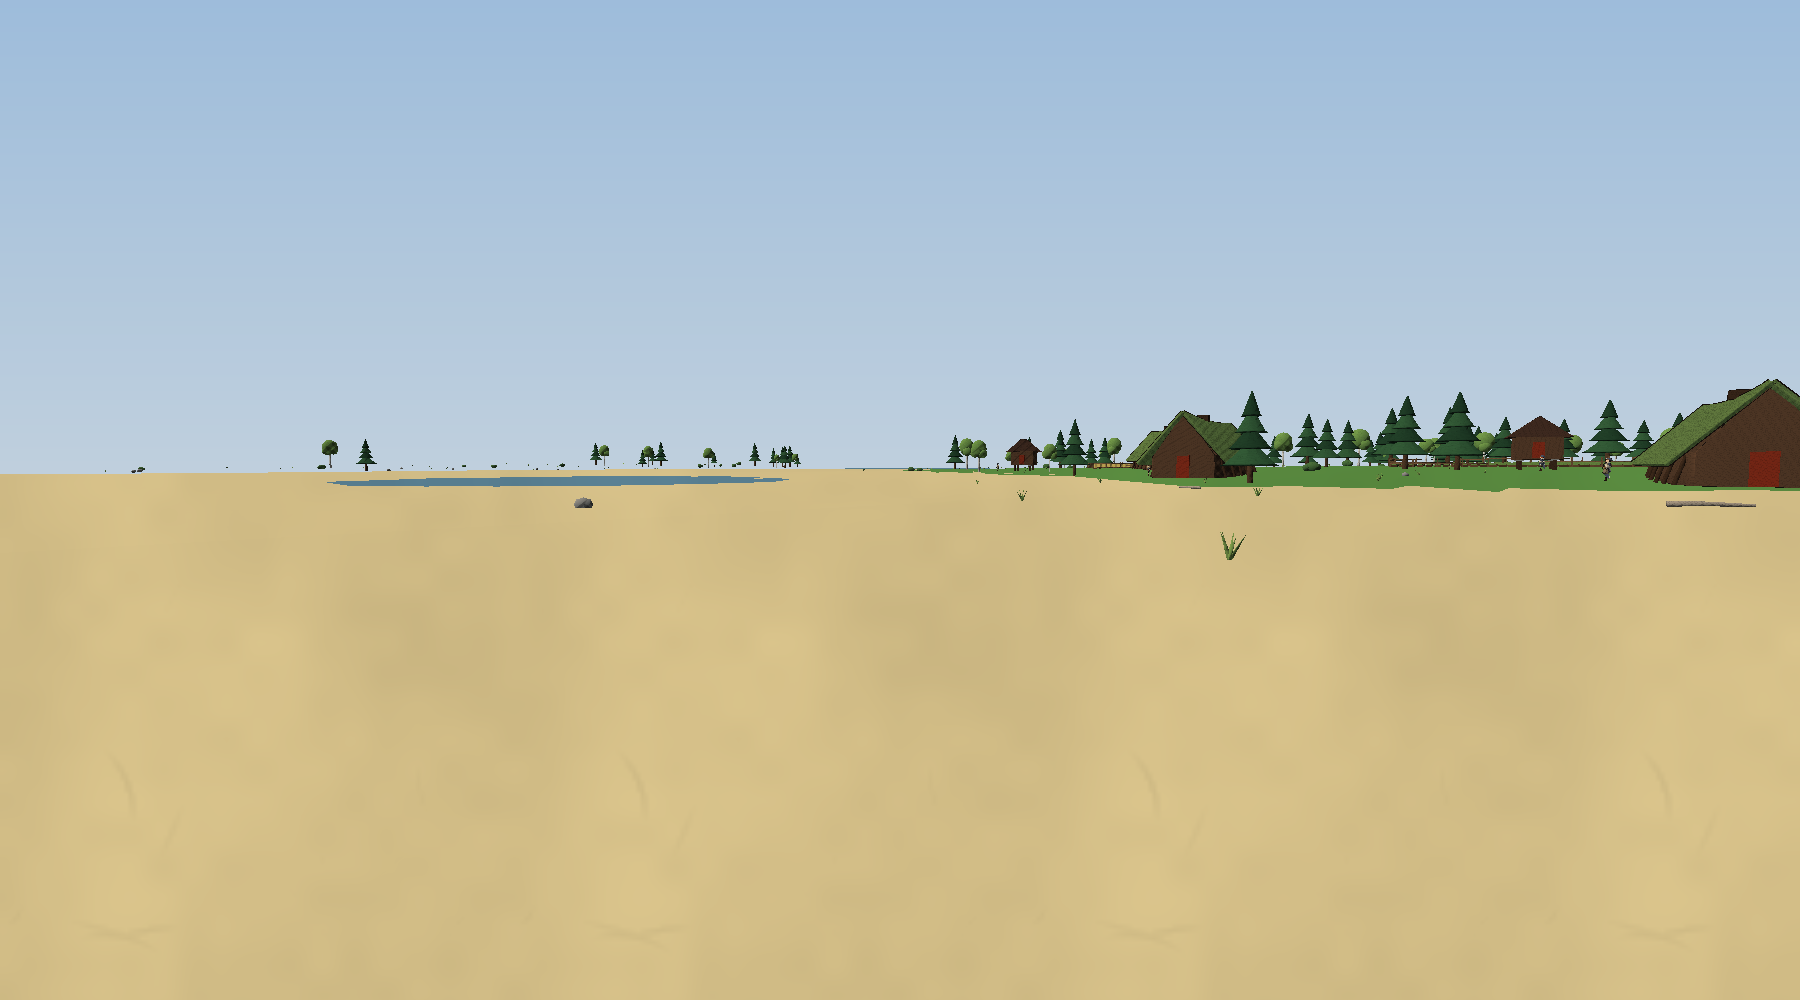
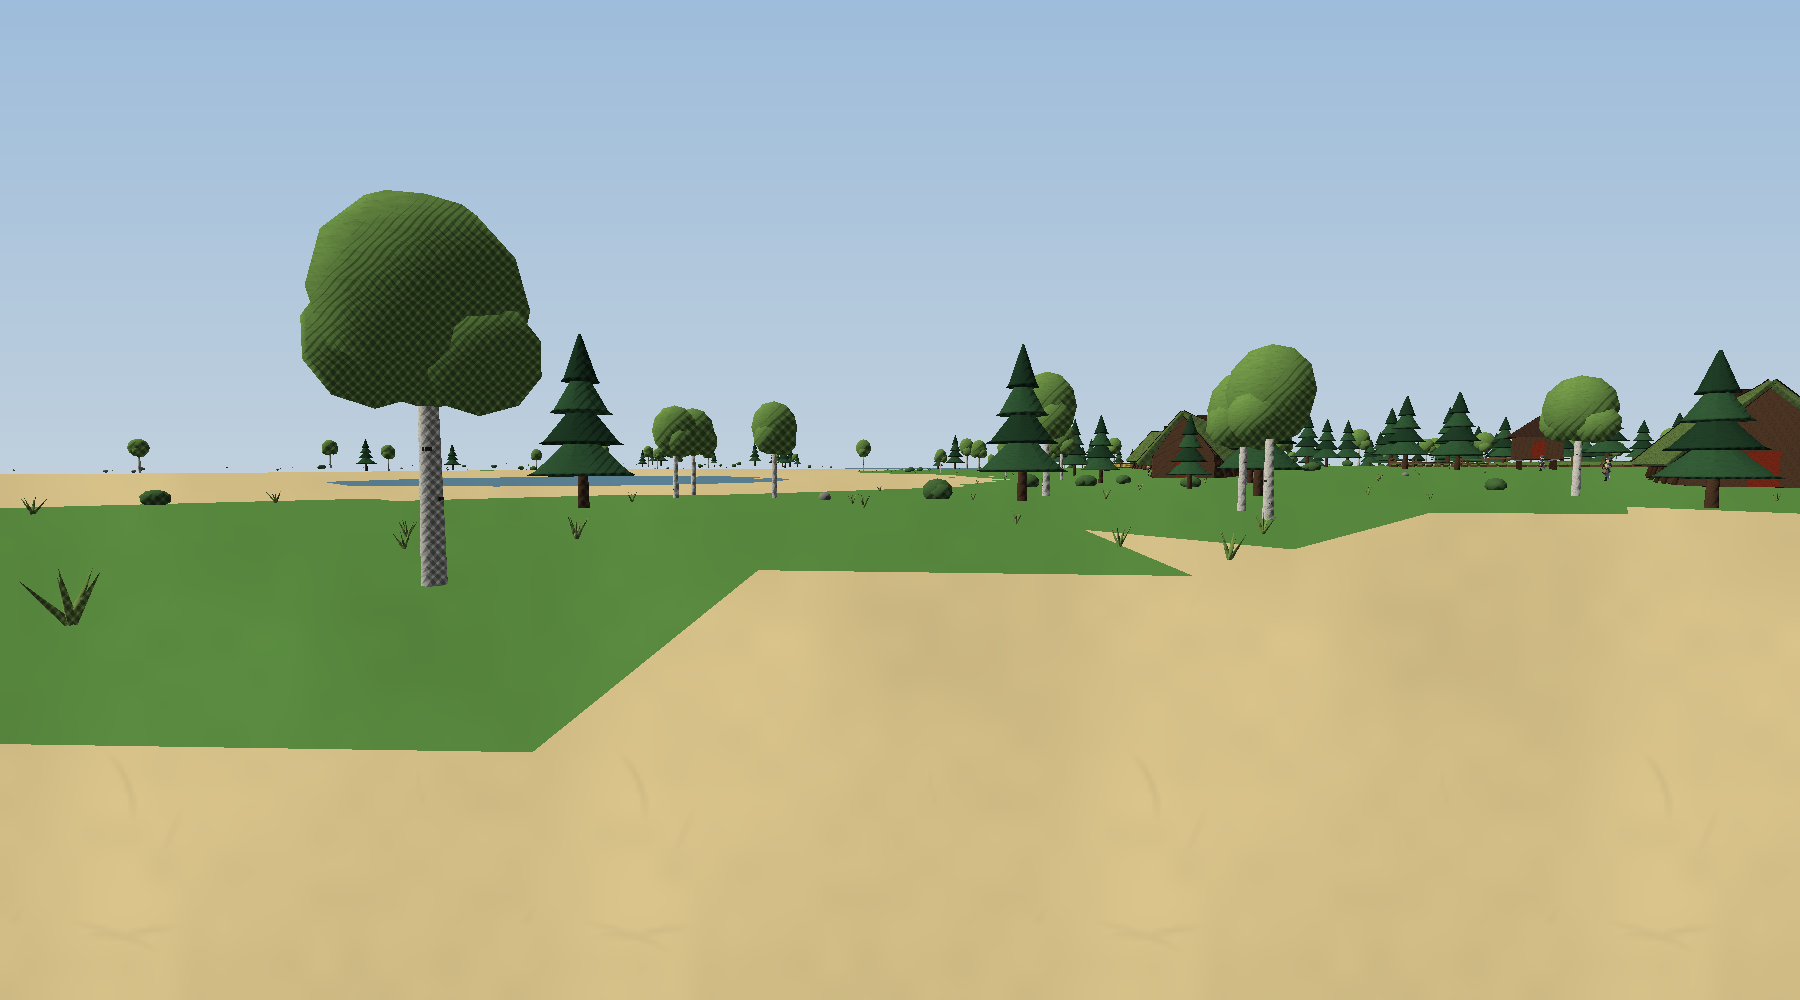
A narrower beach: sand only right at the waterline, so low shores like Kaupang's are grass and trees, not a desert
Claude-Session: https://claude.ai/code/session_01SCdejJ1UF8RUxAkkFhZXGU

Changed region(s): [[0.0, 0.186, 1.0, 0.775], [0.0622, 0.434, 0.0933, 0.465]]

diff --git a/tools/tests/LogicTests.cs b/tools/tests/LogicTests.cs
@@ -666,7 +666,7 @@ public static class LogicTests
             worst = Math.Max(worst, Math.Abs(TerrainDetail.Height(map, px, pz) - map.GroundHeight((float)px, (float)pz)));
         }
         Check(worst < 80f, "made-up detail stays within tens of metres of the real land (" + worst + ")");
-        Check(TerrainDetail.Kind(2000f, 0.1f) == Ground.Snow && TerrainDetail.Kind(-10f, 0f) == Ground.Seabed && TerrainDetail.Kind(0.3f, 0.1f) == Ground.Sand && TerrainDetail.Kind(2f, 0.1f) == Ground.Grass && TerrainDetail.Kind(200f, 1.5f) == Ground.Rock,
+        Check(TerrainDetail.Kind(2000f, 0.1f) == Ground.Snow && TerrainDetail.Kind(-10f, 0f) == Ground.Seabed && TerrainDetail.Kind(0.1f, 0.1f) == Ground.Sand && TerrainDetail.Kind(2f, 0.1f) == Ground.Grass && TerrainDetail.Kind(200f, 1.5f) == Ground.Rock,
             "peaks are snow, the sea floor seabed, beaches sand and cliffs rock");
 
         // The floating origin: shifting keeps global positions and brings the player home.

diff --git a/OdinsCoin/Assets/Scripts/World/TerrainDetail.cs b/OdinsCoin/Assets/Scripts/World/TerrainDetail.cs
@@ -40,7 +40,7 @@ namespace OdinsCoin
             if (realHeight < -0.5f) return Ground.Seabed;
             if (realHeight > 1500f || (realHeight > 1100f && slope < 0.5f)) return Ground.Snow;
             // Only a strip of beach at the waterline: the low farmland of the south is green, not a desert.
-            if (realHeight < 0.5f && slope < 0.35f) return Ground.Sand;
+            if (realHeight < 0.22f && slope < 0.35f) return Ground.Sand;
             if (slope > 0.7f || realHeight > 850f) return Ground.Rock;
             return Ground.Grass;
         }
